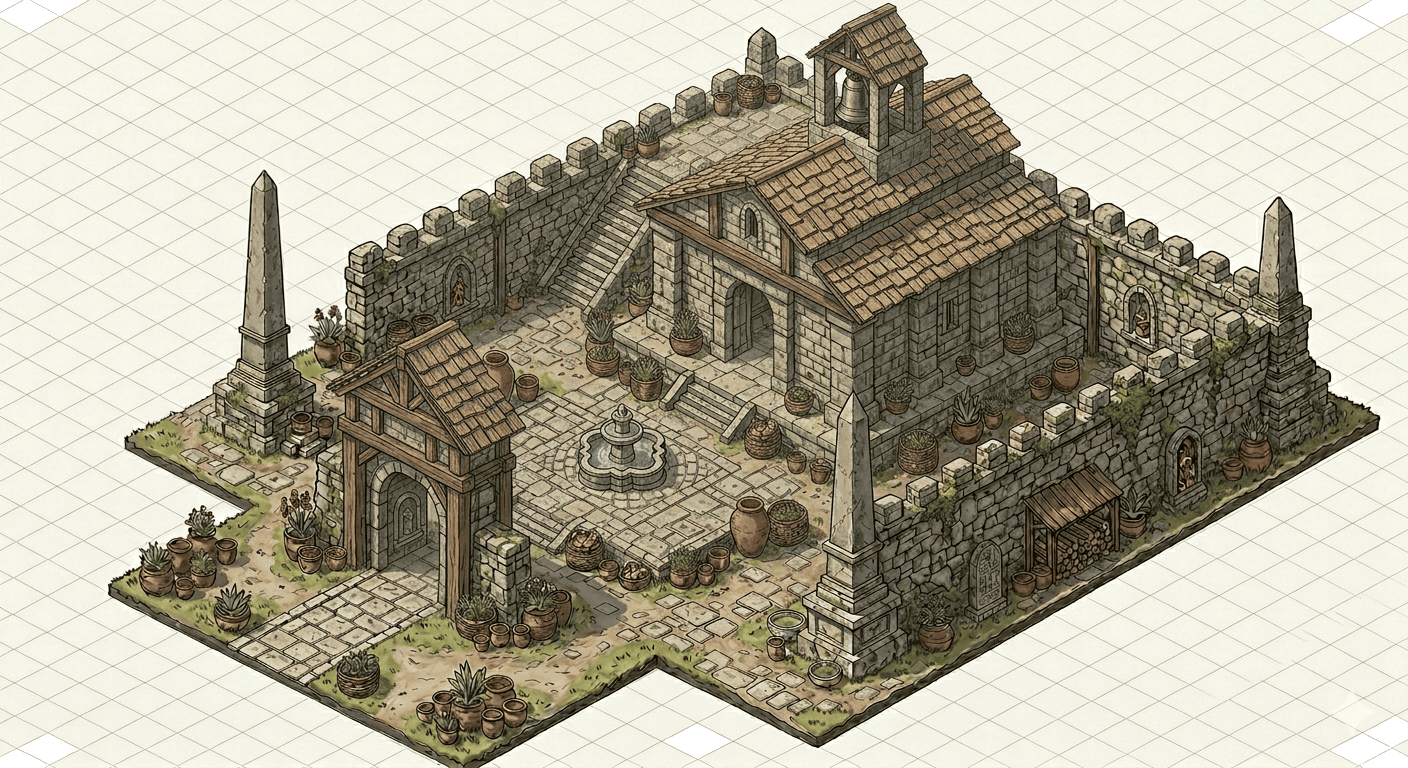
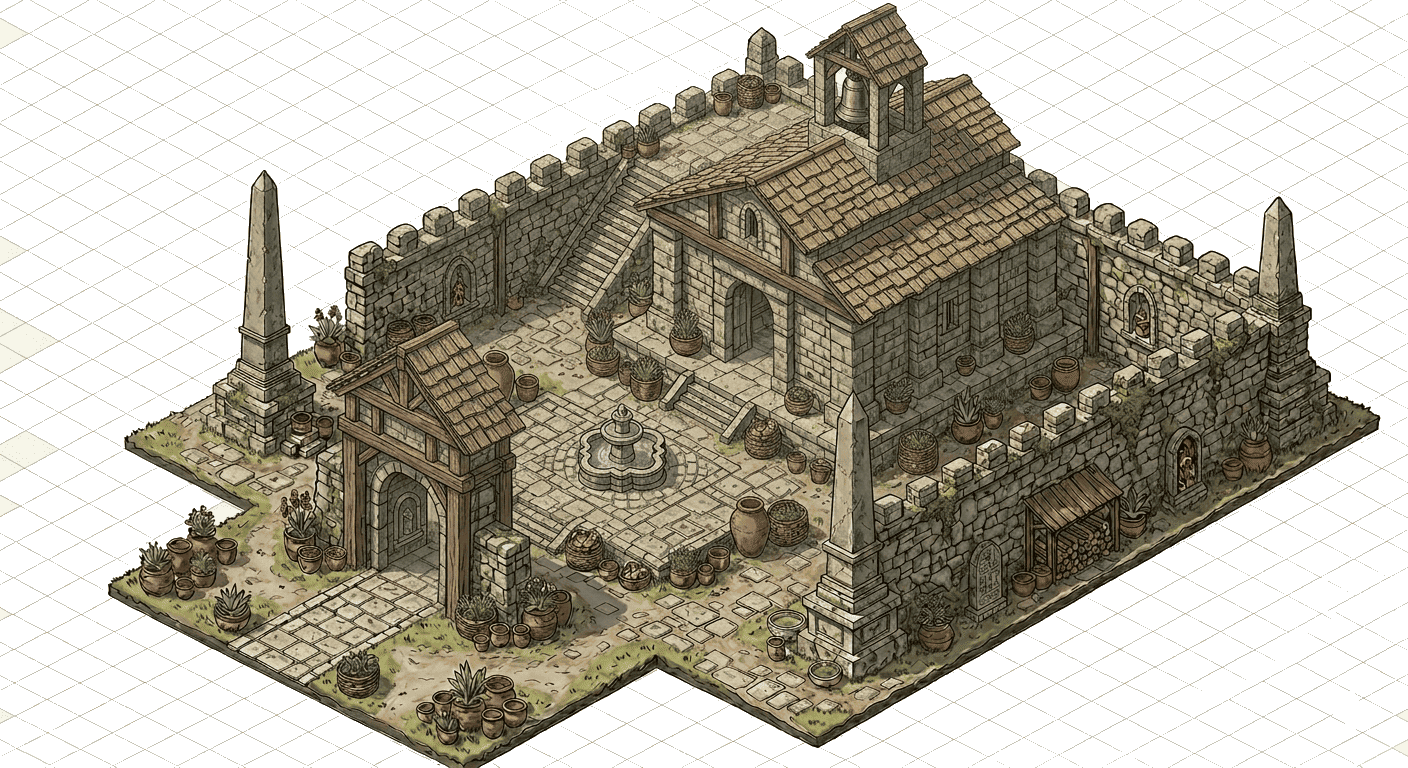
temple: remove background, enlarge PNG, remove procedural facade
- temple.png: flood-filled background removed (grid-paper cream removed),
  pngquant compressed to 386KB
- zones.js: removed T.WALL/T.DOOR procedural temple facade tiles; left
  open dirt plaza so the PNG overlay lands cleanly
- renderer-assets.js: temple SCENE_DECO size 200→420 for proper scale

https://claude.ai/code/session_017N2r3NWzC87ShVjMjw7b1V

diff --git a/zones.js b/zones.js
@@ -111,13 +111,8 @@ function buildTempleMap() {
   fill(9,9,5,10,T.DIRT);
   [[10,11],[10,12],[10,14],[10,15],[12,11],[12,15],[11,10],[11,16]].forEach(([r,c])=>g[r][c]=T.WALL);
 
-  // Temple facade at south (rows 16-20, cols 9-18)
+  // Temple grounds at south — open dirt plaza behind the PNG overlay
   fill(16,9,5,10,T.DIRT);
-  for(let c=9;c<19;c++){ g[16][c]=T.WALL; }
-  for(let r=16;r<20;r++){ g[r][9]=T.WALL; g[r][18]=T.WALL; }
-  g[17][13]=T.DOOR; g[17][14]=T.DOOR; // temple door (closed — story locked)
-  for(let c=10;c<13;c++) g[16][c]=T.WALL;
-  for(let c=15;c<18;c++) g[16][c]=T.WALL;
 
   // Grass clearings beside path
   fill(3,5,14,5,T.GRASS);  // west

diff --git a/renderer-assets.js b/renderer-assets.js
@@ -296,7 +296,7 @@ const SCENE_DECO = {
     { img:'temple_obelisk', col:10, row:9,  size:100, yOff:0 },
     { img:'temple_obelisk', col:17, row:9,  size:100, yOff:0 },
     // Main temple at the end of the ceremonial road
-    { img:'temple',         col:13, row:16, size:200, yOff:0 },
+    { img:'temple',         col:13, row:16, size:420, yOff:0 },
   ],
 };
 
